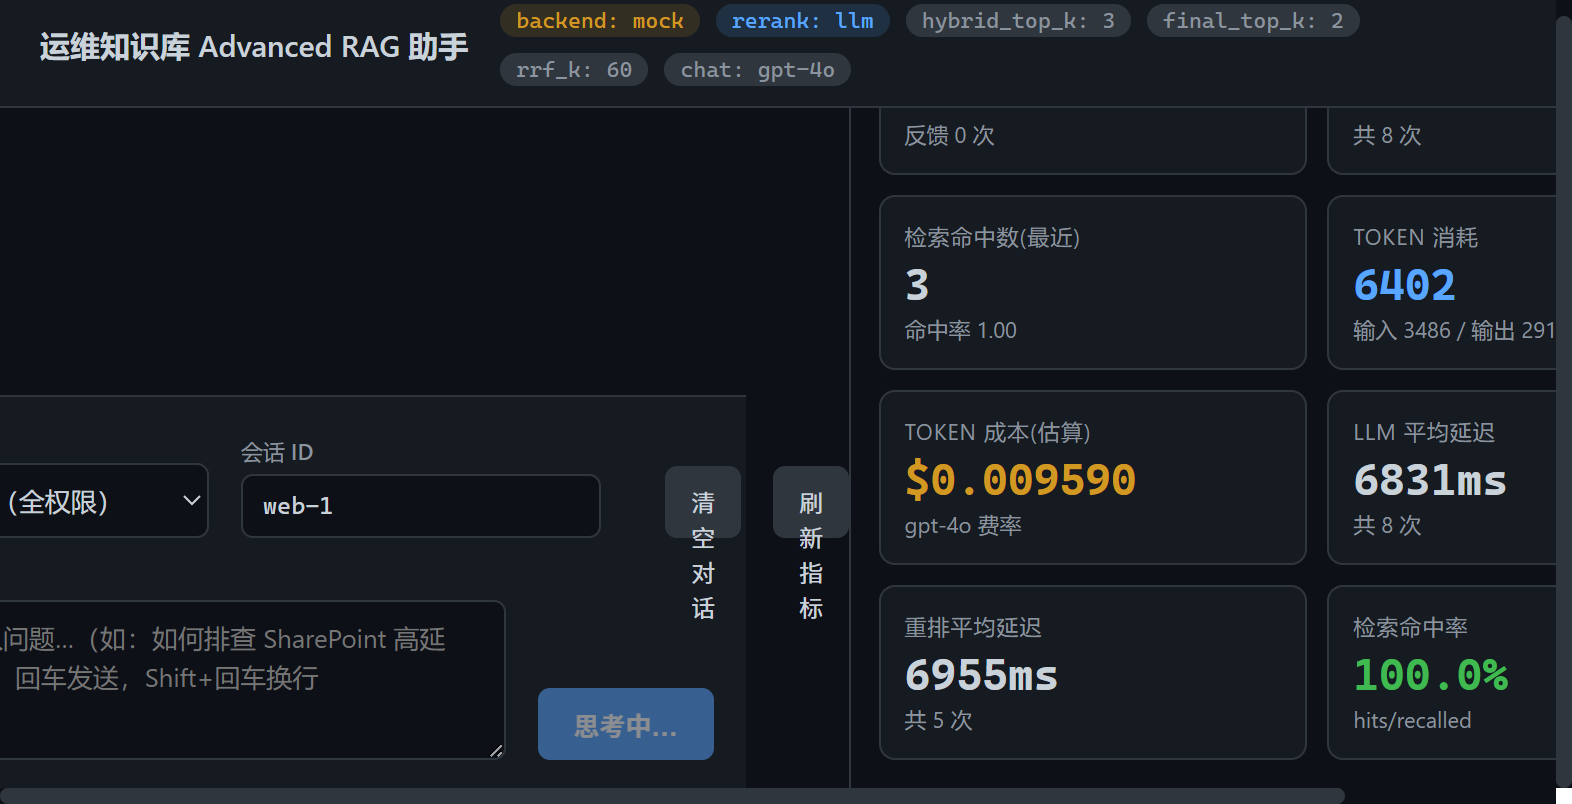
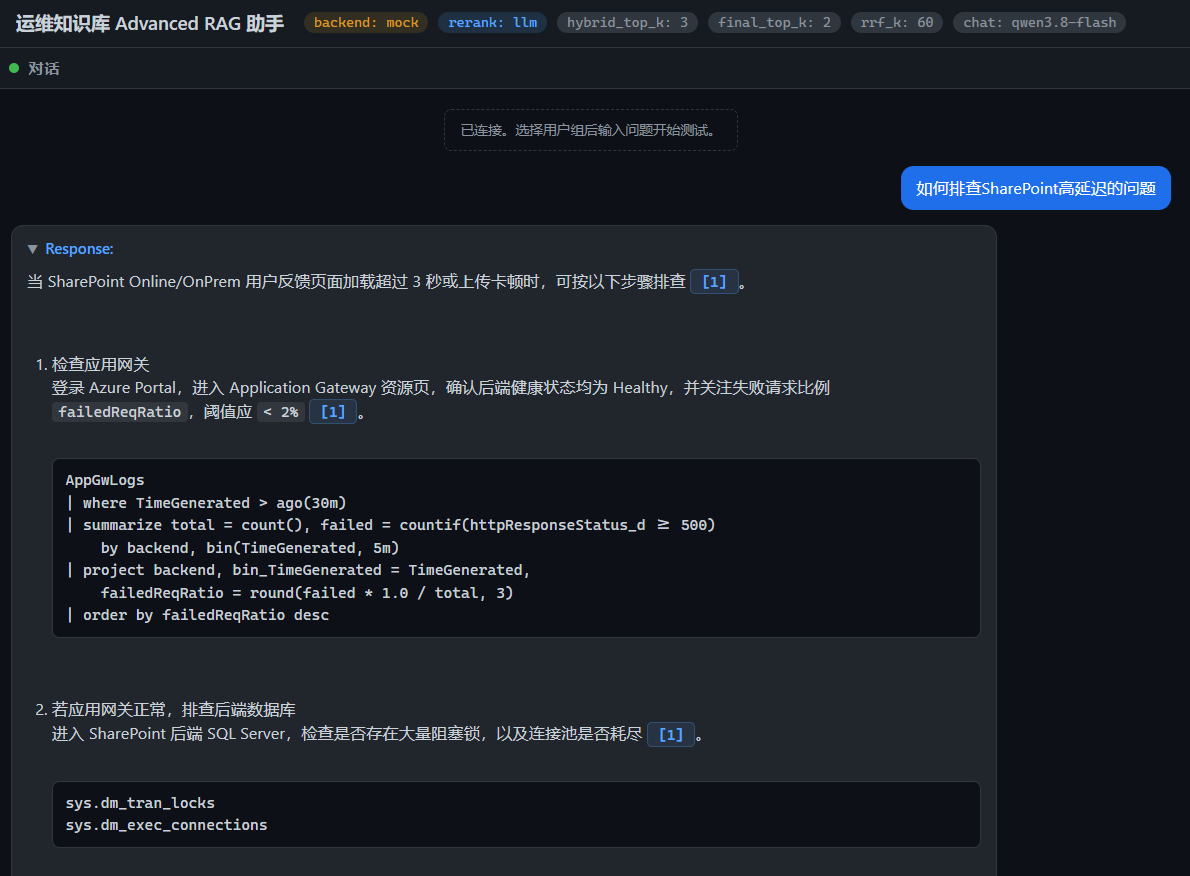
fix: 修复 /config 500 与启动警告, 简化 README 架构图
- routes.py: /config 引用不存在的 Settings 字段 (llm_name/embedding_model) 导致 500, 改为 model_name/azure_openai_embedding_deployment
- config.py: protected_namespaces=() 消除 pydantic model_ 前缀警告
- workflow.py: 工作流画图仅在 Jupyter 内核执行, 消除终端 IPython 警告
- main.py/azure_openai.py: logger 级别纠正 error->info, 增加启动/关闭日志, 应用标题加 OCE 前缀
- README: 新增对比传统 RAG 提升表格, 架构图精简, mermaid 节点加引号兼容 Gitee 老版本渲染
- docs: 更新测试界面截图

diff --git a/backend/src/app/graph/workflow.py b/backend/src/app/graph/workflow.py
@@ -26,9 +26,19 @@ from app.graph.state import GraphState
 # Jupyter 环境下可视化工作流图（无 IPython 时静默跳过）
 try:
     from IPython.display import Image, display  # type: ignore
+
+    def _in_jupyter() -> bool:
+        try:
+            from IPython import get_ipython  # type: ignore
+            return get_ipython() is not None
+        except Exception:  # pragma: no cover
+            return False
 except ImportError:  # pragma: no cover
     Image = None  # type: ignore
     display = None  # type: ignore
+
+    def _in_jupyter() -> bool:
+        return False
 
 logger = logging.getLogger(__name__)
 
@@ -82,8 +92,8 @@ class RAGWorkflow:
         g.add_edge("evaluate_answer_node", END)
         self._graph = g.compile()
 
-        # Jupyter 环境下画出工作流 DAG
-        if display is not None and Image is not None:
+        # 仅 Jupyter 环境画出工作流 DAG（纯终端下 display(Image) 会打警告）
+        if display is not None and Image is not None and _in_jupyter():
             try:
                 display(Image(
                     self._graph.get_graph().draw_mermaid_png(
@@ -97,6 +107,7 @@ class RAGWorkflow:
         self, question: str, user_group: str, session_id: str
     ) -> dict[str, Any]:
         history = _SESSIONS.setdefault(session_id, [])
+        logging.info("history: %s", history)
         state: GraphState = {
             "question": question,
             "user_group": user_group,
@@ -106,6 +117,7 @@ class RAGWorkflow:
             result = await self._graph.ainvoke(state)
         else:
             result = await self._fallback_run(state)
+        logging.info("result: %s", result)
         # 更新会话历史(始终用 dict 格式,避免 LangGraph 的 Message 对象污染)
         history.append({"role": "user", "content": question})
         if "answer" in result:
@@ -153,3 +165,4 @@ class RAGWorkflow:
         close = getattr(self.llm, "aclose", None)
         if callable(close):
             await close()
+            logging.info("LLM 资源已释放")

diff --git a/backend/src/app/config.py b/backend/src/app/config.py
@@ -17,14 +17,15 @@ class Settings(BaseSettings):
         extra="ignore",
         case_sensitive=True,        # 严格大小写，防止系统环境变量误匹配
         populate_by_name=True,      # 允许用字段名本身（api_key）或 alias（API_KEY）
+        protected_namespaces=(),    # 允许 model_base_url / model_name 字段名（pydantic 默认保留 model_ 前缀）
     )
 
     # Azure OpenAI
     azure_openai_endpoint: str = Field(default="", alias="AZURE_OPENAI_ENDPOINT")
     azure_openai_api_key: str = Field(default="", alias="AZURE_OPENAI_API_KEY")
-    azure_openai_api_version: str = Field(default="2024-06-01", alias="AZURE_OPENAI_API_VERSION")
-    azure_openai_chat_deployment: str = Field(default="gpt-4o", alias="AZURE_OPENAI_CHAT_DEPLOYMENT")
-    azure_openai_embedding_deployment: str = Field(default="text-embedding-3-small", alias="AZURE_OPENAI_EMBEDDING_DEPLOYMENT")
+    azure_openai_api_version: str = Field(default="", alias="AZURE_OPENAI_API_VERSION")
+    azure_openai_chat_deployment: str = Field(default="", alias="AZURE_OPENAI_CHAT_DEPLOYMENT")
+    azure_openai_embedding_deployment: str = Field(default="", alias="AZURE_OPENAI_EMBEDDING_DEPLOYMENT")
 
     # QWen / DeepSeek / 任何 OpenAI 兼容接口
     # alias 只接受大写环境变量名，DEEPSEEK_API_KEY 不会误匹配到 api_key

diff --git a/backend/src/app/api/routes.py b/backend/src/app/api/routes.py
@@ -1,6 +1,7 @@
 """FastAPI 路由：/chat /feedback /health /metrics。"""
 import time
 from typing import TYPE_CHECKING
+import logging
 
 from fastapi import APIRouter, HTTPException
 from app.api.schemas import (
@@ -65,8 +66,8 @@ async def config() -> dict:
         "hybrid_top_k": settings.hybrid_top_k,
         "final_top_k": settings.final_top_k,
         "rrf_k": settings.rrf_k,
-        "chat_deployment": settings.azure_openai_chat_deployment,
-        "embedding_deployment": settings.azure_openai_embedding_deployment,
+        "chat_deployment": settings.model_name,
+        "embedding_deployment": settings.azure_openai_embedding_deployment or "-",
         "index_name": settings.azure_search_index_name,
     }
 
@@ -83,7 +84,7 @@ async def chat(req: ChatRequest) -> ChatResponse:
         )
     except Exception as exc:  # noqa: BLE001
         import traceback as tb
-        logger.error("Chat pipeline failed:\n%s", tb.format_exc())
+        logging.error("Chat pipeline failed:\n%s", tb.format_exc())
         raise HTTPException(status_code=500, detail=f"RAG pipeline error: {exc}") from exc
 
     latency_ms = (time.perf_counter() - start) * 1000

diff --git a/backend/src/app/main.py b/backend/src/app/main.py
@@ -12,11 +12,10 @@ from fastapi.staticfiles import StaticFiles
 from app.api.routes import router, set_workflow
 from app.config import get_settings
 
-
 @asynccontextmanager
 async def lifespan(app: FastAPI):
     settings = get_settings()
-    logging.error("settings: %s", settings)
+    logging.info("settings: %s", settings)
     logging.basicConfig(level=settings.log_level.upper())
     logging.getLogger("app").info(
         "启动 RAG 助手 | mock_backend=%s | rerank=%s",
@@ -28,14 +27,17 @@ async def lifespan(app: FastAPI):
     await workflow.a_init()
     set_workflow(workflow)
     app.state.workflow = workflow
+    logging.info("工作流初始化完成")
     yield
     await workflow.a_close()
+    logging.info("工作流关闭完成")
 
 
 def create_app() -> FastAPI:
     settings = get_settings()
+    logging.info("settings: %s", settings)
     app = FastAPI(
-        title="运维知识库 Advanced RAG 助手",
+        title="OCE运维知识库 Advanced RAG 助手",
         version="0.1.0",
         description="混合检索 + 重排 + 引用溯源 + 权限过滤的企业级 RAG 原型",
         lifespan=lifespan,

diff --git a/backend/src/app/llm/azure_openai.py b/backend/src/app/llm/azure_openai.py
@@ -272,7 +272,7 @@ class LLMClient(BaseLLMClient):
 
 def build_llm_client(settings: Settings) -> BaseLLMClient:
     """工厂方法:DeepSeek/QWen > Azure > Mock。"""
-    logger.error("settings: %s", settings)
+    logger.info("settings: %s", settings)
     if settings.has_llm:
         logger.info("使用 QWen or DeepSeek LLM (model=%s)", settings.model_name)
         return LLMClient(settings)

diff --git a/README.md b/README.md
@@ -5,7 +5,17 @@
 ### 1.1 背景
 运维知识（Runbook、Postmortem、Kusto 查询模板、IcM 事件摘要）通常散落在多个系统，格式多样，且存在严格的权限隔离。传统关键词搜索无法理解语义，传统RAG仅靠向量做粗筛，极易因“字面相似但语义不符”召回大量噪音，导致大模型“垃圾进垃圾出”甚至产生幻觉。Advanced RAG引入重排（CrossEncoder/LLM）进行深度精筛，能大幅降噪并提取最切题的核心信息，从而显著提升大模型回答的质量与准确度。
 
-### 1.2 核心目标
+### 1.2 对比传统 RAG 的提升
+
+| 维度 | 传统 RAG | 本项目 |
+|---|---|---|
+| 检索 | 单一向量召回 | BM25+向量+RRF 混合，关键词/语义互补 |
+| 排序 | 直接取 top-k | LLM/CrossEncoder 重排，附排名变化对比 |
+| 成本 | 每次都全链路调 LLM | 意图路由：闲聊旁路检索、空召回直接兜底 |
+| 可信度 | 答案无法验证 | [N] 引用溯源 + 权限过滤防越权 |
+| 质量 | 无度量 | 双轨评估 + P95/Token 成本/命中率监控告警 |
+
+### 1.3 核心目标
 构建一个**企业级、可评估、可观测**的 Advanced RAG 助手原型：
 - **准确**：混合检索 + 重排 + 引用溯源。
 - **安全**：支持基于用户角色的文档级权限过滤。
@@ -20,20 +30,12 @@
 
 ```mermaid
 flowchart TD
-    User[用户/企业IM/工单系统] --> API[FastAPI 网关]
-    API --> LG[LangGraph 编排层]
-    LG --> Memory[多轮对话记忆]
-    LG --> Retriever[混合检索模块]
-    Retriever --> Search[Azure AI Search]
-    Search --> Rerank[重排模块 Cross-Encoder/LLM]
-    Rerank --> Context[上下文组装]
-    Context --> LLM[Azure OpenAI / DeepSeek / Qwen 生成答案]
-    LLM --> Eval[在线评估 Faithfulness/Relevancy/Hallucination]
-    LLM --> Obs[可观测性看板]
-    Obs --> Prometheus[Prometheus + Grafana]
+    User["用户 / 企业IM / 工单系统"] --> API["FastAPI + 单页前端"]
+    API --> LG["LangGraph 编排层<br/>意图路由 → 混合检索+权限过滤 → 重排 → 生成 → 在线评估"]
+    LG --> KB[("运维知识库<br/>Runbook / Postmortem / Kusto / IcM 脱敏")]
+    LG --> LLM["Azure OpenAI / DeepSeek / Qwen"]
+    LG -. 指标采集 .-> Obs["Prometheus + Grafana<br/>P95 延迟 / Token 成本 / 评估指标"]
 ```
-
-### 
 
 ### 2.2 LangGraph 工作流（实际运行图）
 
@@ -74,7 +76,7 @@ graph TD;
 
 ### 3.1 数据源与脱敏
 - **数据源**：Markdown/PDF 运维手册、Postmortem 报告、Kusto 查询语句、IcM 事件摘要。
-- **脱敏要求**：**严禁使用微软内部机密数据**。使用合成数据或公开文档，删除所有真实客户信息、内部域名、API Key。
+- **脱敏要求**：使用合成数据或公开文档，删除所有真实客户信息、内部域名、API Key。
 - **数据格式**：`data/raw/` 下按类别存放，例如 `runbooks/`、`postmortems/`。
 
 ### 3.2 数据预处理与 Ingestion
